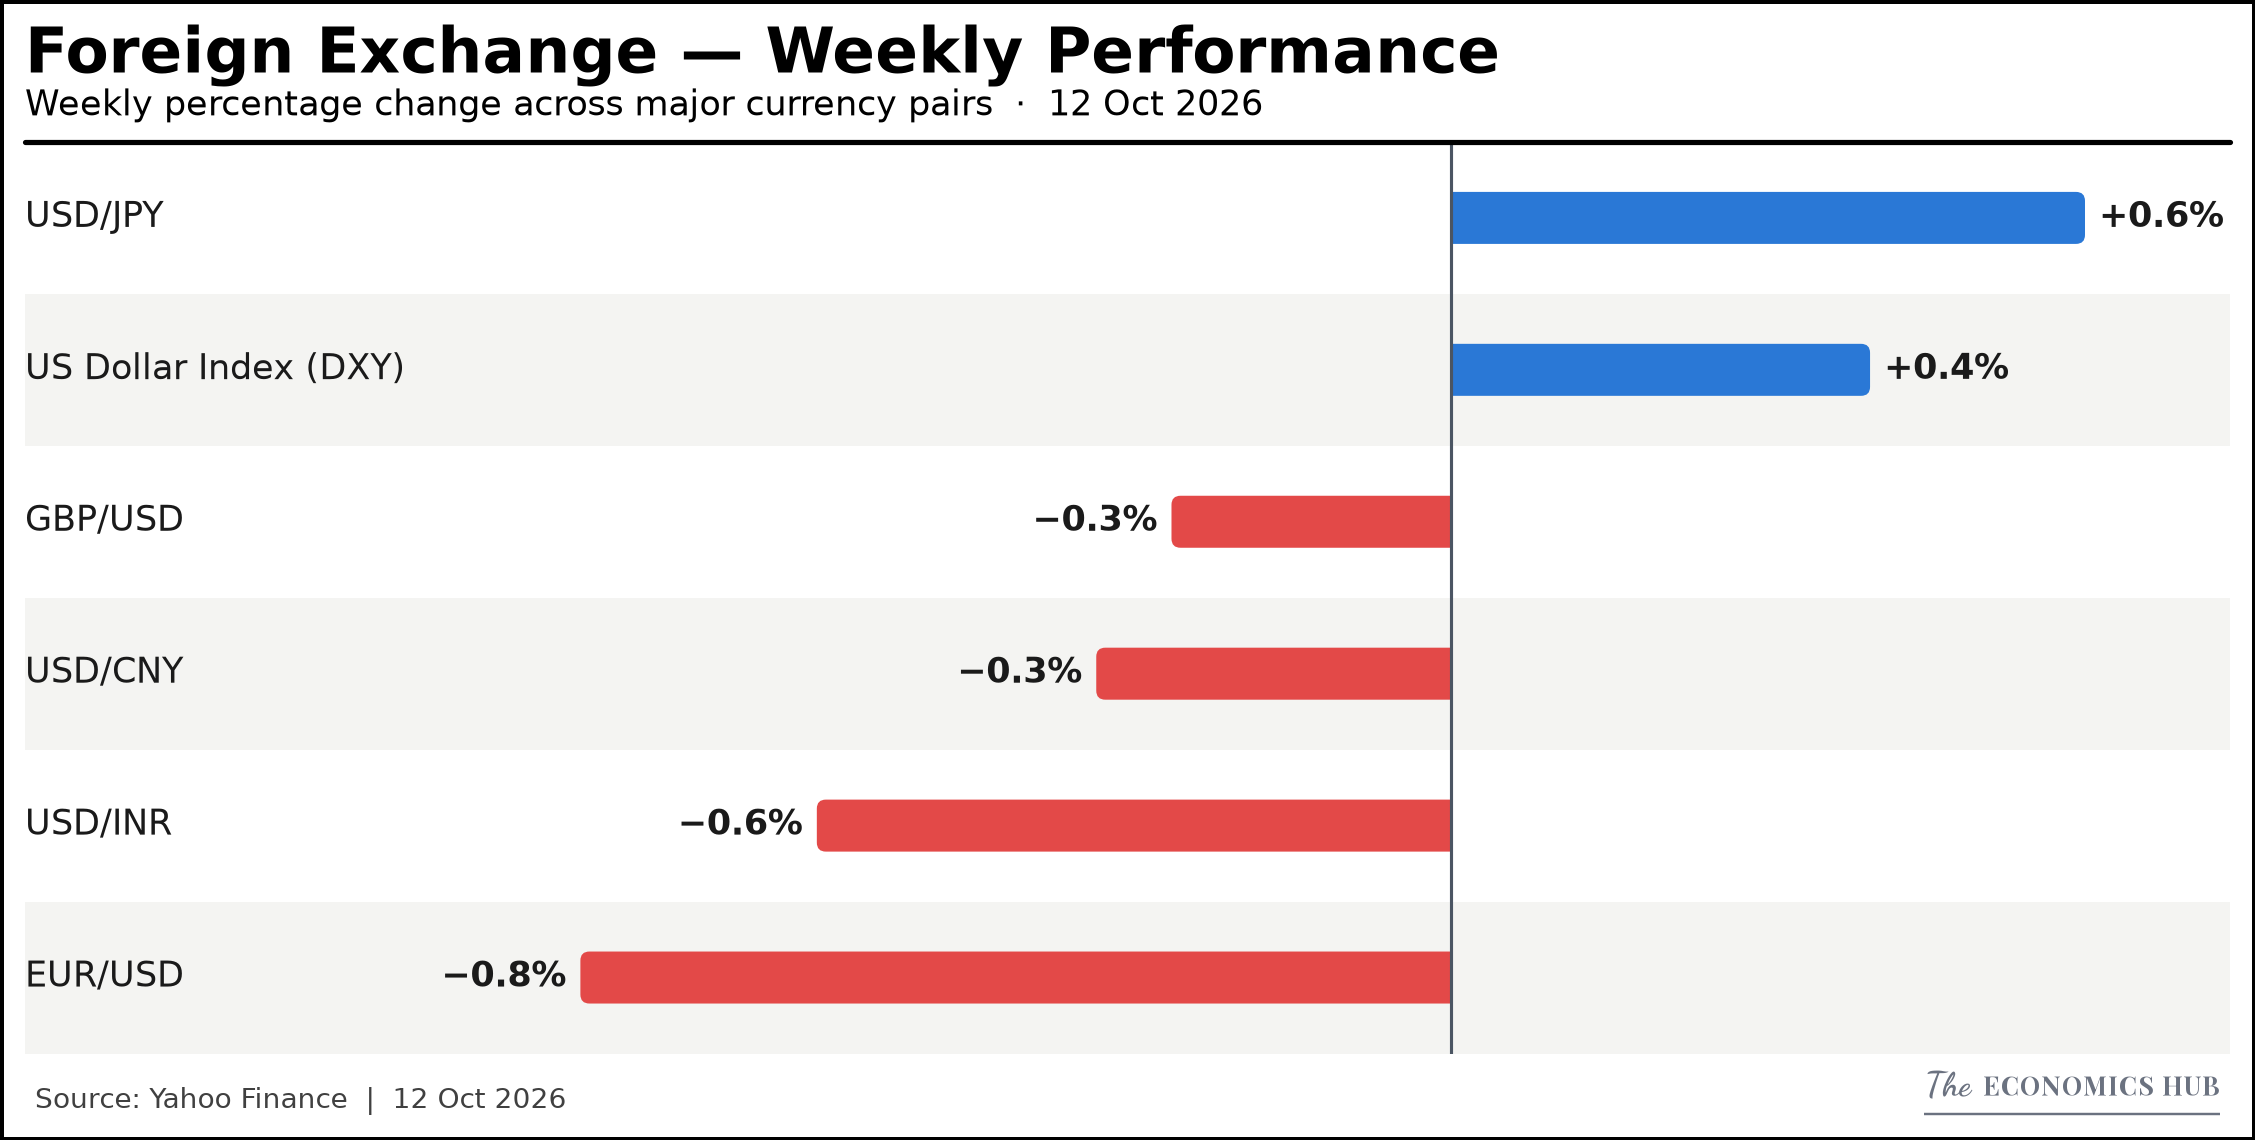
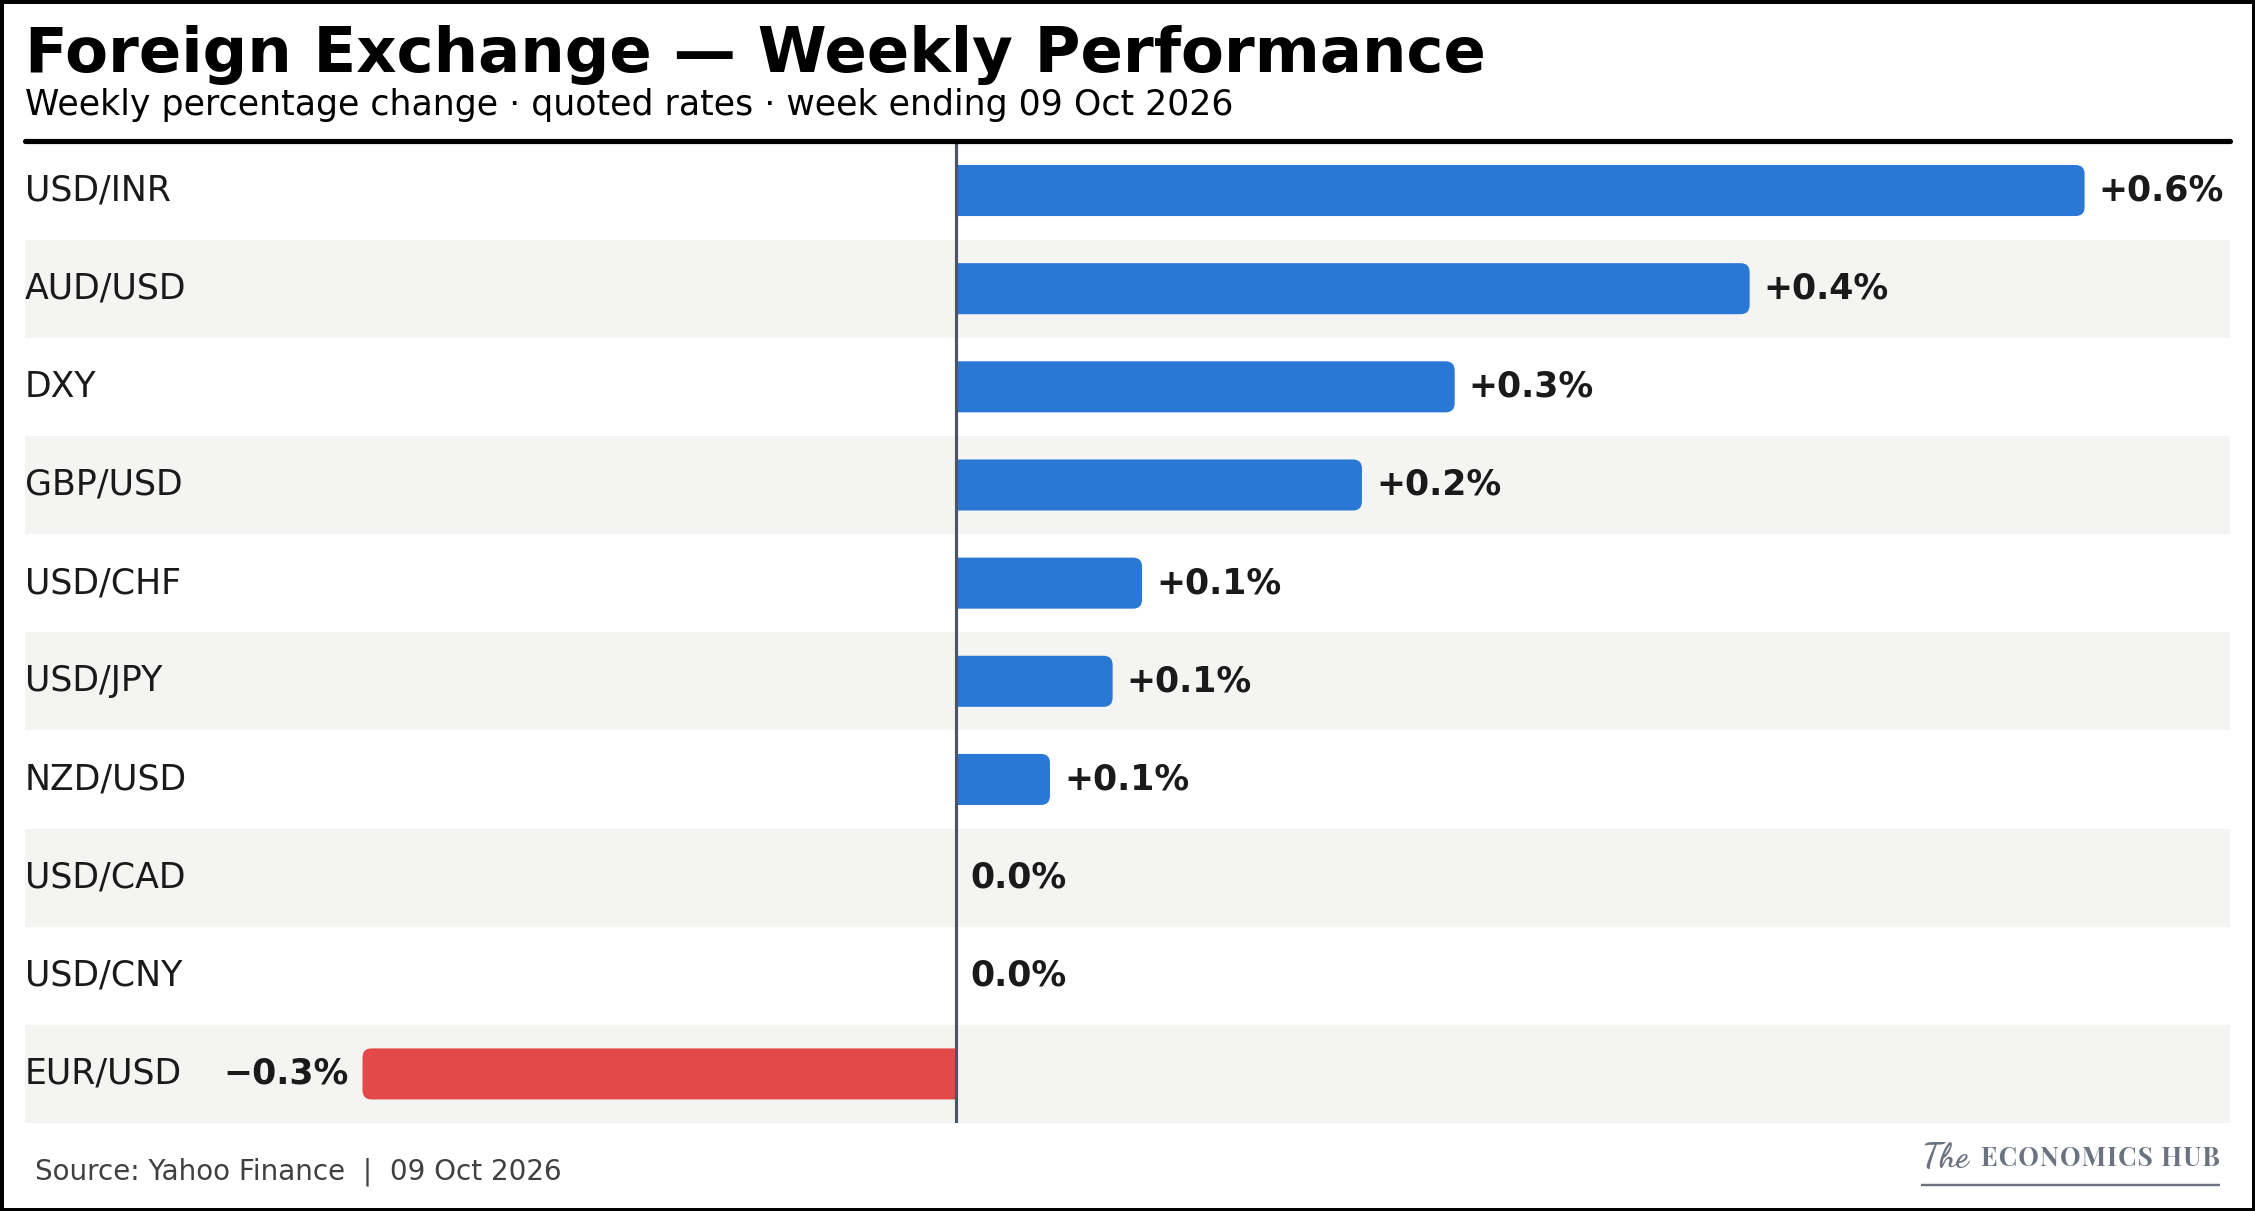
feat: expand weekly FX and replace trends with TTM performance bars

diff --git a/config/insights.py b/config/insights.py
@@ -120,15 +120,15 @@ Youth unemployment is structurally higher than overall unemployment; compare the
     # ── WEEKLY: FOREIGN EXCHANGE ────────────────────────────────────────────
 
     "fx_weekly": """\
-**How to read this chart:** Weekly percentage moves in major currency pairs, anchored by the DXY (US Dollar Index). For cross rates like EUR/USD and GBP/USD, a positive bar means the dollar *weakened*; for USD/INR and USD/CNY, a positive bar means the dollar *strengthened* against the respective EM currency. The DXY move sets the directional context — if it dominates as the largest mover, the week's FX story is a dollar narrative, not a bilateral one.
+**How to read this chart:** Weekly percentage moves from the previous completed Friday to the latest completed Friday in nine currency pairs and DXY (US Dollar Index). For EUR/USD, GBP/USD, AUD/USD and NZD/USD, a positive bar means the dollar *weakened*. For USD/INR, USD/JPY, USD/CNY, USD/CAD and USD/CHF, a positive bar means the dollar *strengthened*. DXY provides the dollar-basket context. Blue and red show the sign of the quoted rate's move, rather than whether it is good or bad.
 
 **Practical takeaway:** Dollar strength weeks (DXY up, EM pairs showing dollar appreciation) tend to coincide with risk-off sentiment, rising US yields, or hawkish Fed rhetoric. Watch the USD/INR bar against the India VIX: when the rupee depreciates alongside rising India VIX, it signals portfolio capital outflows. A divergence where USD/JPY weakens sharply without a corresponding DXY move may indicate a carry trade unwind — historically a precursor to broader EM volatility.
 """,
 
     "fx_trend": """\
-**How to read this chart:** Key FX rates over the trailing 12 months, all indexed to 100 at the start. Because DXY and cross rates move in opposite directions for "dollar strength," compare the *slope* of each line rather than the absolute level. A rising USD/INR line alongside a falling EUR/USD line confirms a broad dollar appreciation cycle.
+**How to read this chart:** Ranked percentage changes over the trailing 12 months for the same nine currency pairs and DXY shown in the weekly chart. Blue bars mean the quoted rate rose; red bars mean it fell. A positive EUR/USD, GBP/USD, AUD/USD or NZD/USD bar means the dollar weakened against that currency. A positive USD/INR, USD/JPY, USD/CNY, USD/CAD or USD/CHF bar means the dollar strengthened. DXY rising indicates a stronger dollar against its basket. Returns compare observed closes around the last completed Friday and the same date one year earlier.
 
-**Practical takeaway:** Sustained DXY appreciation over more than two quarters historically correlates with EM central bank intervention, tighter financial conditions in dollar-indebted economies, and downward pressure on commodity prices (oil, gold priced in USD). For India-watchers, the USD/INR trend over 12 months matters more than any single week's move — a structurally depreciating rupee erodes real import costs, widens the current account deficit, and forces RBI to deploy FX reserves.
+**Practical takeaway:** Compare the weekly and 12-month bars to see whether the week's move extends or reverses the longer-term direction. Read each pair's quote direction before comparing it with DXY. For India, a rising USD/INR bar means rupee depreciation over the period and more rupees needed for dollar-priced imports.
 """,
 
     # ── WEEKLY: GOVERNMENT BOND YIELDS ─────────────────────────────────────

diff --git a/generate_weekly.py b/generate_weekly.py
@@ -797,19 +797,9 @@ def generate_with_live_data(output_dir, mode="dashboard"):
 
     # ── 2. FX ──
 
-    print("   [4/8] FX — 12-Month Trends")
-    trend = TrendLineChart()
-    for ind_id in ["dxy", "eurusd","usdinr", "usdjpy"]:
-        dates, vals = get_trend(ind_id)
-        if dates:
-            ind = INDICATORS[ind_id]
-            # "DXY", as the subtitle has it: the full name would end "(DXY) (+3.7%)".
-            trend.add_series("DXY" if ind_id == "dxy" else ind["name"], dates, vals,
-                             color_key=ind["color_key"])
-    trend.render(title="Key FX Rates — Trailing 12 Months",
-                 subtitle="Indexed to 100 at start  ·  DXY, EUR/USD, USD/INR, USD/JPY",
-                 source="Yahoo Finance", normalize=True, ylabel="Indexed (start = 100)")
-    trend.save(output_dir / "04_fx_trend.png")                                      # <--- Add this
+    print("   [FX] Weekly and trailing-12-month performance bars")
+    from charts.weekly_fx import generate_fx_charts
+    generate_fx_charts(output_dir, fetcher=yf_fetcher)
 
     # ── 3. YIELDS ──
 
@@ -1093,19 +1083,6 @@ def generate_with_live_data(output_dir, mode="dashboard"):
     except Exception as e:
         print(f"   ⚠ Real wage growth failed: {e}")
         
-    # ── 8. FX WEEKLY BAR ──
-    print("   [FX-bar] FX — Weekly Performance Bar Chart")
-    try:
-        fx_ids = ["dxy", "eurusd", "gbpusd", "usdinr", "usdjpy", "usdcny"]
-        names_fx, values_fx, cks_fx = build_bar_data(fx_ids)
-
-        if names_fx:
-            _t, _s = WEEKLY_TITLES["fx_weekly"][mode]
-            fig = render_change_bars(names_fx, values_fx, _t, _s.format(date=date_label), "Yahoo Finance")
-            EconStyle.save_chart(fig, output_dir / "03_fx_weekly.png")
-    except Exception as e:
-        print(f"   ⚠ FX weekly bar failed: {e}")
-
     # NOTE: USD/BRL is an ad-hoc narrative chart. Run: python custom/brazil_fx.py
 
     # ── 11. CREDIT SPREADS ──
@@ -2825,6 +2802,8 @@ def generate_with_live_data(output_dir, mode="dashboard"):
 def main():
     parser = argparse.ArgumentParser(description="Generate Economics Hub Weekly Dashboard")
     parser.add_argument("--preview", action="store_true", help="Generate at lower DPI")
+    parser.add_argument("--fx-only", action="store_true", help="Refresh just the two currency charts")
+    parser.add_argument("--output-dir", type=Path, help="Output folder for --fx-only")
     parser.add_argument(
         "--mode",
         choices=["dashboard", "newsletter"],
@@ -2836,6 +2815,14 @@ def main():
     if args.preview:
         EconStyle.DPI = EconStyle.DPI_PREVIEW
 
+    if args.fx_only:
+        from charts.weekly_fx import generate_fx_charts
+        # Avoid the full generator's cleanup of every PNG in the edition.
+        output_dir = args.output_dir or PROJECT_ROOT / "output" / "fx"
+        generate_fx_charts(output_dir)
+        return
+    if args.output_dir:
+        parser.error("--output-dir requires --fx-only")
     output_dir = get_output_dir()
 
     generate_with_live_data(output_dir, mode=args.mode)

diff --git a/charts/weekly_fx.py b/charts/weekly_fx.py
@@ -1,0 +1,62 @@
+"""Matched weekly and trailing-12-month FX performance bars."""
+from datetime import date
+from pathlib import Path
+
+import pandas as pd
+
+from charts.style import EconStyle
+from charts.templates.change_bars import render_change_bars
+from config.weekly_settings import WEEKLY_FX
+
+
+def fx_returns(histories, as_of):
+    """Use the last completed Friday and observed closes on/before each anchor.
+
+    Holiday gaps of up to seven days are allowed. A missing annual baseline
+    never becomes a shorter-period return or a filled observation.
+    """
+    cutoff = pd.Timestamp(as_of).normalize()
+    # Friday itself is still in progress; use the prior completed week.
+    end = cutoff - pd.Timedelta(days=(cutoff.weekday() - 4) % 7 or 7)
+    anchors = (end, end - pd.Timedelta(days=7), end - pd.DateOffset(years=1))
+    rows = []
+    for name in WEEKLY_FX:
+        series = histories[name].dropna().copy()
+        series.index = pd.to_datetime(series.index).tz_localize(None).normalize()
+        series = series.sort_index()
+        prices = []
+        for anchor in anchors:
+            observations = series.loc[series.index <= anchor]
+            if observations.empty or (anchor - observations.index[-1]).days > 7:
+                raise ValueError(f"{name}: no close near {anchor:%Y-%m-%d}")
+            price = float(observations.iloc[-1])
+            if not 0 < price < float("inf"):
+                raise ValueError(f"{name}: invalid close at {anchor:%Y-%m-%d}")
+            prices.append(price)
+        rows.append((name, (prices[0] / prices[1] - 1) * 100,
+                     (prices[0] / prices[2] - 1) * 100))
+    return end.date(), rows
+
+
+def generate_fx_charts(output_dir, fetcher=None, as_of=None):
+    """Fetch once per pair; validate all ten before replacing either chart."""
+    if fetcher is None:
+        from data.fetchers.yfinance_fetcher import YFinanceFetcher
+        fetcher = YFinanceFetcher()
+    as_of = as_of or date.today()
+    histories = {}
+    for name, ticker in WEEKLY_FX.items():
+        histories[name] = fetcher.get_close_series(ticker, period="2y")
+        print(f"   FX: {name} ({len(histories[name])} closes)")
+    end, rows = fx_returns(histories, as_of)
+    output_dir = Path(output_dir)
+    output_dir.mkdir(parents=True, exist_ok=True)
+    for index, title, period, filename in (
+        (1, "Foreign Exchange — Weekly Performance", "Weekly", "03_fx_weekly.png"),
+        (2, "Key FX Rates — Trailing 12 Months", "Trailing 12-month", "04_fx_trend.png"),
+    ):
+        fig = render_change_bars([r[0] for r in rows], [r[index] for r in rows], title,
+                                 f"{period} percentage change · quoted rates · week ending {end:%d %b %Y}",
+                                 "Yahoo Finance", source_date=f"{end:%d %b %Y}")
+        EconStyle.save_chart(fig, output_dir / filename)
+    return end, rows

diff --git a/tests/test_weekly_fx.py b/tests/test_weekly_fx.py
@@ -1,0 +1,59 @@
+"""FX bars use matched universes and calendar return anchors, without filling gaps."""
+from datetime import date
+
+import pandas as pd
+import pytest
+
+from charts.weekly_fx import fx_returns, generate_fx_charts
+from config.weekly_settings import WEEKLY_FX
+
+
+def histories():
+    # The annual date is a Thursday, and extra rows prevent positional shortcuts.
+    return {name: pd.Series([99., 100., 110., 115., 120., 126., 999.],
+                           index=pd.to_datetime(["2025-10-02", "2025-10-09", "2026-04-01", "2026-09-25", "2026-10-02",
+                                                 "2026-10-09", "2026-10-12"]))
+            for name in WEEKLY_FX}
+
+
+def test_returns_use_completed_week_and_calendar_year_for_all_ten_rates():
+    end, rows = fx_returns(histories(), date(2026, 10, 12))
+    assert end == date(2026, 10, 9)
+    assert len(rows) == 10
+    for name, weekly, annual in rows:
+        assert weekly == pytest.approx(5.)
+        assert annual == pytest.approx(26.)
+    assert fx_returns(histories(), date(2026, 10, 9))[0] == date(2026, 10, 2)
+
+
+def test_holiday_uses_observed_close_before_anchor_and_preserves_quote_direction():
+    data = histories()
+    data["EUR/USD"] = pd.Series([2., 1.8, 1.6],
+                                index=pd.to_datetime(["2025-10-08", "2026-10-01", "2026-10-08"]))
+    _, rows = fx_returns(data, date(2026, 10, 12))
+    eur = next(r for r in rows if r[0] == "EUR/USD")
+    assert eur[1] == pytest.approx((1.6 / 1.8 - 1) * 100)
+    assert eur[2] == pytest.approx(-20.)
+
+
+def test_missing_annual_baseline_is_rejected_instead_of_shortening_ttm():
+    data = histories()
+    data["USD/CHF"] = data["USD/CHF"].loc["2026-04-01":]
+    with pytest.raises(ValueError, match="USD/CHF: no close near 2025-10-09"):
+        fx_returns(data, date(2026, 10, 12))
+
+
+def test_two_charts_share_all_ten_pairs_and_bar_renderer(monkeypatch, tmp_path):
+    import charts.weekly_fx as fx
+    from unittest.mock import Mock
+    fetcher = Mock()
+    fetcher.get_close_series.side_effect = list(histories().values())
+    render = Mock(return_value=object())
+    save = Mock()
+    monkeypatch.setattr(fx, "render_change_bars", render)
+    monkeypatch.setattr(fx.EconStyle, "save_chart", save)
+    generate_fx_charts(tmp_path, fetcher, date(2026, 10, 12))
+    assert fetcher.get_close_series.call_count == 10
+    assert render.call_count == 2
+    assert render.call_args_list[0].args[0] == render.call_args_list[1].args[0] == list(WEEKLY_FX)
+    assert [c.args[1].name for c in save.call_args_list] == ["03_fx_weekly.png", "04_fx_trend.png"]

diff --git a/config/weekly_settings.py b/config/weekly_settings.py
@@ -14,6 +14,20 @@ and Gold/SPX under Commodities ("gold") and real yields under Fixed Income
 
 SUMMARY_CHART = "summary_table"
 
+# The two currency bar charts share this universe and the displayed quote direction.
+WEEKLY_FX = {
+    "DXY": "DX-Y.NYB",
+    "EUR/USD": "EURUSD=X",
+    "GBP/USD": "GBPUSD=X",
+    "USD/INR": "INR=X",
+    "USD/JPY": "JPY=X",
+    "USD/CNY": "CNY=X",
+    "AUD/USD": "AUDUSD=X",
+    "USD/CAD": "CAD=X",
+    "USD/CHF": "CHF=X",
+    "NZD/USD": "NZDUSD=X",
+}
+
 # Page order. Each section also gets a jump link in the tab header.
 WEEKLY_SECTIONS: list[tuple[str, list[str]]] = [
     ("Equities", [

diff --git a/docs/project_context.md b/docs/project_context.md
@@ -454,8 +454,8 @@ draws them instead — the snapshot table (00), the trend lines (02, 04, 08) and
 | `12_breakeven_inflation` | Breakeven Inflation | Rates, Inflation & Credit | 5- and 10-year breakevens | FRED T5YIE T10YIE |
 | `11_credit_spreads` | Credit Spreads | Rates, Inflation & Credit | IG and HY option-adjusted spreads, 2 years | FRED BAMLC0A0CM BAMLH0A0HYM2 |
 | `18_bond_etf_returns` | Bond ETF Returns | Rates, Inflation & Credit | Trailing 12-month total returns | Yahoo: TLT, LQD, HYG |
-| `03_fx_weekly` | FX Weekly | Currencies | Week's % change | Yahoo: DXY, EUR/USD, GBP/USD, USD/INR, USD/JPY, USD/CNY |
-| `04_fx_trend` | FX Trend | Currencies | 12 months, indexed | Yahoo: DXY, EUR/USD, USD/INR, USD/JPY |
+| `03_fx_weekly` | FX Weekly | Currencies | Ranked weekly % change, completed Friday closes | Yahoo: DXY, EUR/USD, GBP/USD, USD/INR, USD/JPY, USD/CNY, AUD/USD, USD/CAD, USD/CHF, NZD/USD |
+| `04_fx_trend` | FX TTM | Currencies | Ranked trailing 12-month % change; same ten rates | Yahoo: same set as FX Weekly; `charts/weekly_fx.py`, universe in `config/weekly_settings.py` |
 | `21_em_equity_weekly` | EM Equity Weekly | Emerging Markets & India | Week's % change of EM country ETFs | Yahoo: INDA MCHI EWZ EWY EWT EWW EZA |
 | `20_em_fx_weekly` | EM FX Weekly | Emerging Markets & India | Week's % change vs USD | Yahoo: INR KRW IDR BRL MXN ZAR TRY |
 | `10b_india_sector_rotation` | India Sector Rotation | Emerging Markets & India | NIFTY sector indices, week | NSE `allIndices` |
